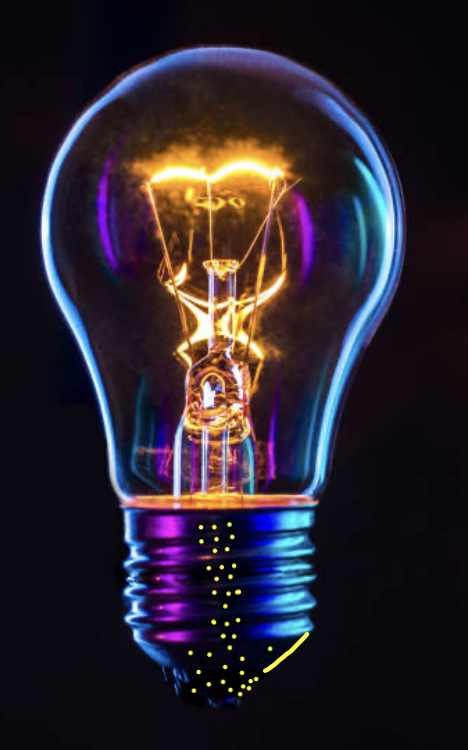
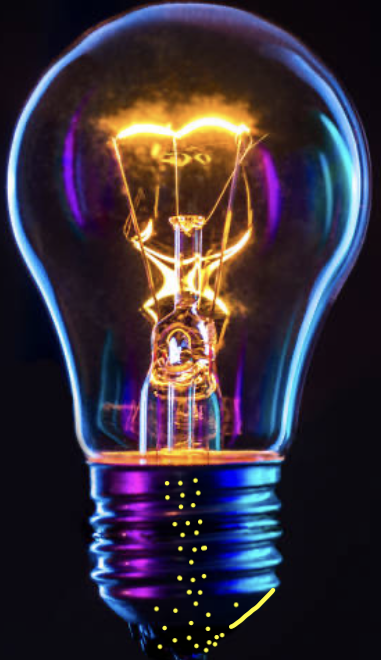
Add keyboard scene navigation

diff --git a/src/sceneWheelNavigation.ts b/src/sceneWheelNavigation.ts
@@ -7,6 +7,7 @@ export function setupSceneWheelNavigation(track: HTMLElement, header: HTMLElemen
   let lastWheelTime = -Infinity
   let gestureDirection = 0
   let handledGesture = false
+  const handledKeys = new Set<string>()
   let touch: { x: number; y: number; target: EventTarget | null; direction: number; destination: number | null; moved: boolean } | null = null
 
   const sceneDestination = (direction: number, target: EventTarget | null): number | null => {
@@ -102,16 +103,43 @@ export function setupSceneWheelNavigation(track: HTMLElement, header: HTMLElemen
 
   const onTouchEnd = () => { touch = null }
 
+  const onKeyDown = (event: KeyboardEvent) => {
+    if (event.defaultPrevented || !event.cancelable || event.ctrlKey || event.metaKey || event.altKey || event.shiftKey) return
+    if (event.key !== 'ArrowDown' && event.key !== 'ArrowUp') return
+    if (event.target instanceof Element && event.target.closest('a, button, input, select, textarea, summary, audio[controls], video[controls], [contenteditable], [role="slider"], [role="spinbutton"], [role="listbox"], [role="menu"], [role="menuitem"], [role="tab"], [role="tree"], [role="grid"]')) return
+
+    if (event.repeat) {
+      if (handledKeys.has(event.key)) event.preventDefault()
+      return
+    }
+
+    const destination = sceneDestination(event.key === 'ArrowDown' ? 1 : -1, event.target)
+    if (destination === null) return
+
+    event.preventDefault()
+    handledKeys.add(event.key)
+    window.scrollTo({ top: destination, behavior: 'instant' })
+  }
+
+  const onKeyUp = (event: KeyboardEvent) => { handledKeys.delete(event.key) }
+  const onBlur = () => { handledKeys.clear() }
+
   window.addEventListener('wheel', onWheel, { passive: false })
   window.addEventListener('touchstart', onTouchStart, { passive: true })
   window.addEventListener('touchmove', onTouchMove, { passive: false })
   window.addEventListener('touchend', onTouchEnd)
   window.addEventListener('touchcancel', onTouchEnd)
+  window.addEventListener('keydown', onKeyDown)
+  window.addEventListener('keyup', onKeyUp)
+  window.addEventListener('blur', onBlur)
   return () => {
     window.removeEventListener('wheel', onWheel)
     window.removeEventListener('touchstart', onTouchStart)
     window.removeEventListener('touchmove', onTouchMove)
     window.removeEventListener('touchend', onTouchEnd)
     window.removeEventListener('touchcancel', onTouchEnd)
+    window.removeEventListener('keydown', onKeyDown)
+    window.removeEventListener('keyup', onKeyUp)
+    window.removeEventListener('blur', onBlur)
   }
 }

diff --git a/src/App.tsx b/src/App.tsx
@@ -291,13 +291,20 @@ export default function App() {
 
   useIsomorphicLayoutEffect(() => {
     const track = trackRef.current
-    if (!track) return
+    const header = headerRef.current
+    if (!track || !header) return
+
+    const updateHeaderHeight = () => {
+      track.style.setProperty('--sg-header-height', `${header.getBoundingClientRect().height}px`)
+    }
+    updateHeaderHeight()
+    const headerObserver = new ResizeObserver(updateHeaderHeight)
+    headerObserver.observe(header)
 
     const ctx = gsap.context(() => {
       const sections = Array.from(track.querySelectorAll<HTMLElement>('.sg-scene'))
       const apply = () => {
-        const header = document.querySelector<HTMLElement>('.sg-top')
-        const top = header?.getBoundingClientRect().height ?? 0
+        const top = header.getBoundingClientRect().height
         const positions = sections.map((section) => section.getBoundingClientRect().top - top)
         let index = 0
         while (index < positions.length - 1 && positions[index + 1] <= 0) index += 1
@@ -318,6 +325,8 @@ export default function App() {
     }, stageRef)
 
     return () => {
+      headerObserver.disconnect()
+      track.style.removeProperty('--sg-header-height')
       ctx.revert()
     }
   }, [reduced])

diff --git a/src/App.css b/src/App.css
@@ -227,6 +227,12 @@ body, button, a { -webkit-tap-highlight-color: transparent; }
   user-select: none;
 }
 
+@media (min-width: 761px) {
+  .sg-stage {
+    margin-top: calc(-1 * var(--sg-header-height, 69px));
+  }
+}
+
 .sg-shade {
   position: absolute;
   inset: 0;

diff --git a/README.md b/README.md
@@ -1,8 +1,9 @@
 # Strata Scientific website
 
 The scene copy lives in `PAGE_SCENES` in `src/scenes.ts`. A mouse-wheel or
-trackpad gesture or vertical touch swipe moves one scene at a time. Keyboard,
-scene links, pinch-to-zoom, and scrolling in oversized layouts remain native.
+trackpad gesture, vertical touch swipe, or Up/Down arrow-key press moves one scene
+at a time. Holding an arrow key does not repeat scene navigation. Interactive
+controls, scene links, pinch-to-zoom, and scrolling in oversized layouts remain native.
 Scrolling past the final scene
 reaches the footer; scrolling up from there returns to the previous scene.
 Changing scenes scatters the decorative glyph particles
